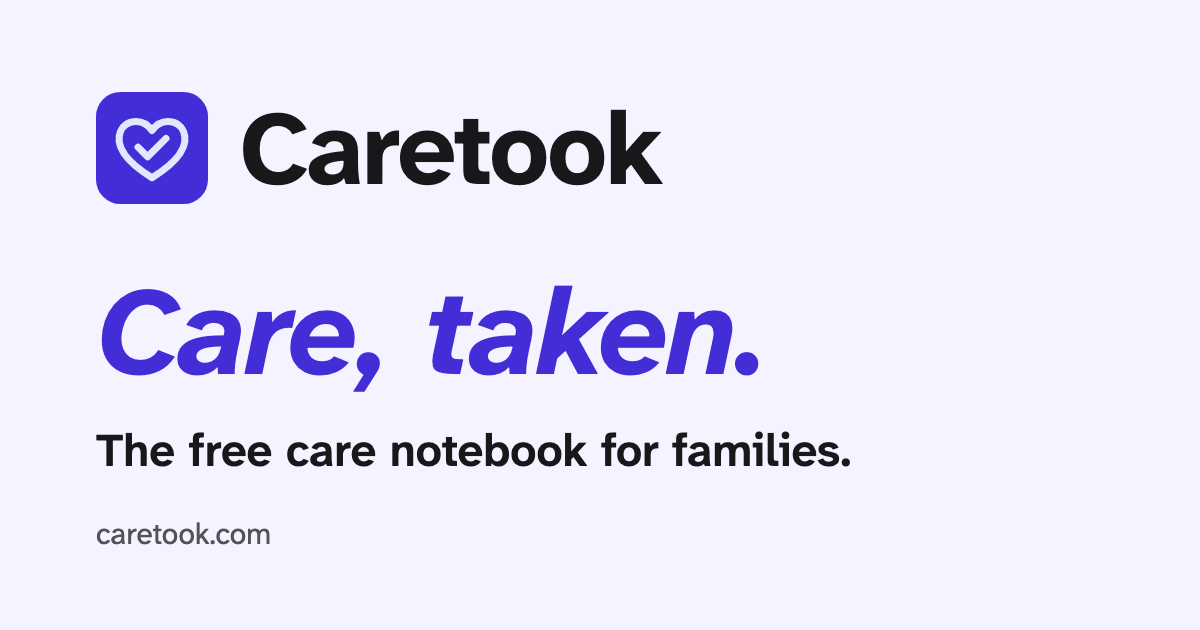
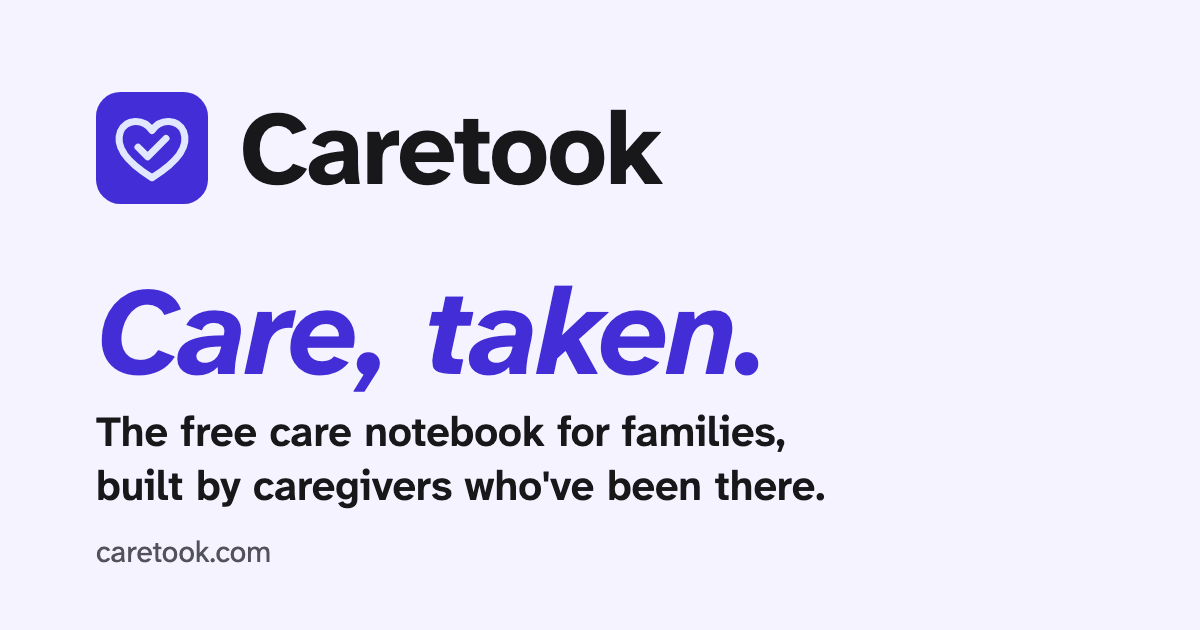
feat(marketing-2): the founder story and bios on About, and the descriptor with the founder clause (slice 4, B-417)
Claude-Session: https://claude.ai/code/session_01MZgeQ1uKcUWeBjuhNgetSx

Changed region(s): [[0.0617, 0.6635, 0.7092, 0.9048]]

diff --git a/apps/web/app/routes/marketing/about/content.test.ts b/apps/web/app/routes/marketing/about/content.test.ts
@@ -23,7 +23,59 @@ describe("about content", () => {
     }
   });
 
-  it("marks the team's own copy as a placeholder until it's written", () => {
-    expect(content.sections.find((s) => s.id === "who")?.placeholder).toBe(true);
+  // The founders' own words, approved on 2026-11-25: compared character for
+  // character with plans/marketing-2-plan.md (slice 4). A failure here is a
+  // question for the user, never a reason to edit either side.
+  it("tells the founder story word for word", () => {
+    const story = content.sections.find((s) => s.id === "who");
+    expect(story?.heading).toBe("Why we built Caretook");
+    expect(story?.paragraphs).toEqual([
+      "We're Bo and Tedder, partners in Mars Hill, North Carolina, and we've both been family caregivers.",
+      "In early 2025, Tedder's father was diagnosed with stage IV lung cancer and died within a few months. Bo's father lived with multiple sclerosis for decades. Bo and his mother cared for him nearly full time through his last two years, until he died in hospice in the fall of 2026.",
+      "The illnesses were different, but the work was the same. We kept medical details straight, tracked medications, kept doctors and family on the same page, and made hard decisions without all the facts. The timeline, printable medication sheets and visit notes we pieced together turned out to be the most useful things we had. Bringing all of it to an AI assistant helped us make sense of everything and keep up with the constant choices.",
+      "We came to it from different directions. Tedder brought clinical and disaster resilience training to the hard conversations and the crises. Bo brought twenty years of building software and the habit of turning a mess into a system. Between us, we could see how those rough tools could become something better, for families who don't have the time to build their own.",
+      "We cared for each other through both losses. Caretook is the tool we wish we'd had the energy to build while we were in the middle of it, made for any family managing long-term care, so the next family doesn't have to start from scratch.",
+    ]);
+  });
+
+  it("gives both founders' bios word for word, right under the story", () => {
+    const at = content.sections.findIndex((s) => s.id === "who");
+    expect(
+      content.sections.slice(at + 1).map(({ id, heading, paragraphs }) => ({ id, heading, paragraphs })),
+    ).toEqual([
+      {
+        id: "tedder",
+        heading: "Tedder, MS, MSW, LCSW, LCASA",
+        paragraphs: [
+          "Co-founder. Master's degrees in social work and disaster resilience leadership from Tulane University.",
+        ],
+      },
+      {
+        id: "bo",
+        heading: "Bo Davis",
+        paragraphs: [
+          "Co-founder. 20 years building software and leading technology teams, including as a startup CTO.",
+        ],
+      },
+    ]);
+  });
+
+  it("has no placeholder copy left", () => {
+    expect(content.sections.some((s) => "placeholder" in s && s.placeholder)).toBe(false);
+  });
+
+  it("names the co-founder Tedder, with no pronoun for Tedder", () => {
+    const sentences = content.sections
+      .filter((s) => ["who", "tedder", "bo"].includes(s.id))
+      .flatMap((s) => [s.heading, ...s.paragraphs.flatMap((p) => p.split(/(?<=\.)\s+/))]);
+    const third = /\b(he|him|his|she|her|hers|they|them|their|theirs)\b/i;
+    const naming = sentences.filter((s) => s.includes("Tedder"));
+    expect(naming.length).toBeGreaterThanOrEqual(4);
+    // No sentence that names Tedder has a third-person pronoun at all.
+    for (const s of naming) expect(third.test(s), s).toBe(false);
+    // "He", "him" and "his" are Bo's father's and Bo's, in sentences without Tedder.
+    expect(sentences.filter((s) => /\b(he|him|his|she|her|hers)\b/i.test(s))).toEqual([
+      "Bo and his mother cared for him nearly full time through his last two years, until he died in hospice in the fall of 2026.",
+    ]);
   });
 });

diff --git a/apps/web/app/routes/marketing/about/content.ts b/apps/web/app/routes/marketing/about/content.ts
@@ -2,8 +2,10 @@ import type { CtaBandContent, PageIntroContent, PageMeta, ProseContent } from ".
 import { MARKETING_LINKS, pagePath } from "../site/pages";
 
 /**
- * About page copy (draft: the user edits it). "Who's behind it" is a
- * placeholder, marked on the page, for the team to write in its own words.
+ * About page copy (draft: the user edits it), but for the founder story
+ * ("who") and the two bios under it: those are the founders' own words,
+ * approved on 2026-11-25 and kept word for word (`content.test.ts` holds them).
+ * The co-founder is named Tedder, with no pronoun.
  */
 export const content = {
   meta: {
@@ -37,10 +39,27 @@ export const content = {
     },
     {
       id: "who",
-      heading: "Who's behind Caretook",
-      placeholder: true,
+      heading: "Why we built Caretook",
       paragraphs: [
-        "This section is waiting for the team to write it: who we are, why we started Caretook, and how to reach us.",
+        "We're Bo and Tedder, partners in Mars Hill, North Carolina, and we've both been family caregivers.",
+        "In early 2025, Tedder's father was diagnosed with stage IV lung cancer and died within a few months. Bo's father lived with multiple sclerosis for decades. Bo and his mother cared for him nearly full time through his last two years, until he died in hospice in the fall of 2026.",
+        "The illnesses were different, but the work was the same. We kept medical details straight, tracked medications, kept doctors and family on the same page, and made hard decisions without all the facts. The timeline, printable medication sheets and visit notes we pieced together turned out to be the most useful things we had. Bringing all of it to an AI assistant helped us make sense of everything and keep up with the constant choices.",
+        "We came to it from different directions. Tedder brought clinical and disaster resilience training to the hard conversations and the crises. Bo brought twenty years of building software and the habit of turning a mess into a system. Between us, we could see how those rough tools could become something better, for families who don't have the time to build their own.",
+        "We cared for each other through both losses. Caretook is the tool we wish we'd had the energy to build while we were in the middle of it, made for any family managing long-term care, so the next family doesn't have to start from scratch.",
+      ],
+    },
+    {
+      id: "tedder",
+      heading: "Tedder, MS, MSW, LCSW, LCASA",
+      paragraphs: [
+        "Co-founder. Master's degrees in social work and disaster resilience leadership from Tulane University.",
+      ],
+    },
+    {
+      id: "bo",
+      heading: "Bo Davis",
+      paragraphs: [
+        "Co-founder. 20 years building software and leading technology teams, including as a startup CTO.",
       ],
     },
   ] satisfies ProseContent[],

diff --git a/apps/web/app/routes/marketing/home/content.test.ts b/apps/web/app/routes/marketing/home/content.test.ts
@@ -15,11 +15,11 @@ describe("homeContent", () => {
     expect(homeContent.meta.description.length).toBeLessThanOrEqual(200);
   });
 
-  it("leads with the lockup: the name, the tagline, then the descriptor without the founder clause", () => {
+  it("leads with the lockup: the name, the tagline, then the descriptor with the founder clause", () => {
     expect(homeContent.hero.lockup).toEqual({
       name: "Caretook",
       tagline: "Care, taken.",
-      descriptor: "The free care notebook for families.",
+      descriptor: "The free care notebook for families, built by caregivers who've been there.",
     });
   });
 
@@ -28,10 +28,14 @@ describe("homeContent", () => {
     expect(nonEmpty(homeContent.hero.lead)).toBe(true);
   });
 
-  it("carries the tagline in its title and the descriptor in its description", () => {
+  it("carries the tagline in its title and the descriptor's first clause in its description", () => {
     const { name, tagline, descriptor } = homeContent.hero.lockup;
     expect(homeContent.meta.title).toBe(`${name}: ${tagline}`);
-    expect(homeContent.meta.description).toContain(descriptor.replace(/\.$/, ""));
+    // The founder clause stays out of the description: with it, the description
+    // would pass the search length the first test holds it to.
+    const [first] = descriptor.split(",");
+    expect(first).toBe("The free care notebook for families");
+    expect(homeContent.meta.description).toContain(first);
   });
 
   it("offers both calls to action: the waitlist and an access code", () => {

diff --git a/apps/web/app/routes/marketing/site/meta.test.ts b/apps/web/app/routes/marketing/site/meta.test.ts
@@ -74,13 +74,20 @@ describe("the share image", () => {
 
   it("has the lockup as its alt text", () => {
     expect(DEFAULT_OG_IMAGE.alt).toBe(`${name}. ${tagline} ${descriptor}`);
-    expect(DEFAULT_OG_IMAGE.alt).toBe("Caretook. Care, taken. The free care notebook for families.");
+    expect(DEFAULT_OG_IMAGE.alt).toBe(
+      "Caretook. Care, taken. The free care notebook for families, built by caregivers who've been there.",
+    );
   });
 
   it("is drawn from an SVG source that says the same words", () => {
     const svg = publicFile(DEFAULT_OG_IMAGE.path.replace(/\.png$/, ".svg")).toString("utf8");
     const words = [...svg.matchAll(/<text[^>]*>([^<]*)<\/text>/g)].map((m) => m[1]);
-    expect(words.slice(0, 3)).toEqual([name, tagline, descriptor]);
+    // The descriptor is too long for one line: it's drawn as two, between the
+    // tagline and the site's address.
+    expect(words.slice(0, 2)).toEqual([name, tagline]);
+    expect(words.slice(2, -1)).toHaveLength(2);
+    expect(words.slice(2, -1).join(" ")).toBe(descriptor);
+    expect(words.at(-1)).toBe("caretook.com");
     expect(svg).toContain(`viewBox="0 0 ${DEFAULT_OG_IMAGE.width} ${DEFAULT_OG_IMAGE.height}"`);
   });
 

diff --git a/apps/web/app/routes/marketing/sections/pages.browser.test.tsx b/apps/web/app/routes/marketing/sections/pages.browser.test.tsx
@@ -38,7 +38,9 @@ test.each([420, 1280])(
     const part = (name: string) => document.querySelector(`[data-lockup-part="${name}"]`);
     expect(part("name")?.textContent).toBe("Caretook");
     expect(part("tagline")?.textContent).toBe("Care, taken.");
-    expect(part("descriptor")?.textContent).toBe("The free care notebook for families.");
+    expect(part("descriptor")?.textContent).toBe(
+      "The free care notebook for families, built by caregivers who've been there.",
+    );
     expect(part("supporting")?.textContent).toBe(heading);
     await expect.element(screen.getByText(lockup.descriptor, { exact: true })).toBeVisible();
     await expect.element(screen.getByText(heading, { exact: true })).toBeVisible();

diff --git a/apps/web/app/routes/marketing/home/content.ts b/apps/web/app/routes/marketing/home/content.ts
@@ -30,7 +30,7 @@ export const homeContent = {
     lockup: {
       name: "Caretook",
       tagline: "Care, taken.",
-      descriptor: "The free care notebook for families.",
+      descriptor: "The free care notebook for families, built by caregivers who've been there.",
     },
     heading: "Keep track of someone's care, together.",
     lead: "Caretook is a shared place for a family to keep track of a loved one's care: what happened today, symptoms and vitals, medications, notes from visits, and the doctors and pharmacies to call. Everyone sees the same thing, on any phone, even offline.",

diff --git a/apps/web/app/routes/marketing/site/meta.ts b/apps/web/app/routes/marketing/site/meta.ts
@@ -17,7 +17,7 @@ export const DEFAULT_OG_IMAGE = {
   path: "/og-default.png",
   width: 1200,
   height: 630,
-  alt: "Caretook. Care, taken. The free care notebook for families.",
+  alt: "Caretook. Care, taken. The free care notebook for families, built by caregivers who've been there.",
 };
 export const LOGO_PATH = "/icons/icon-512.png";
 
